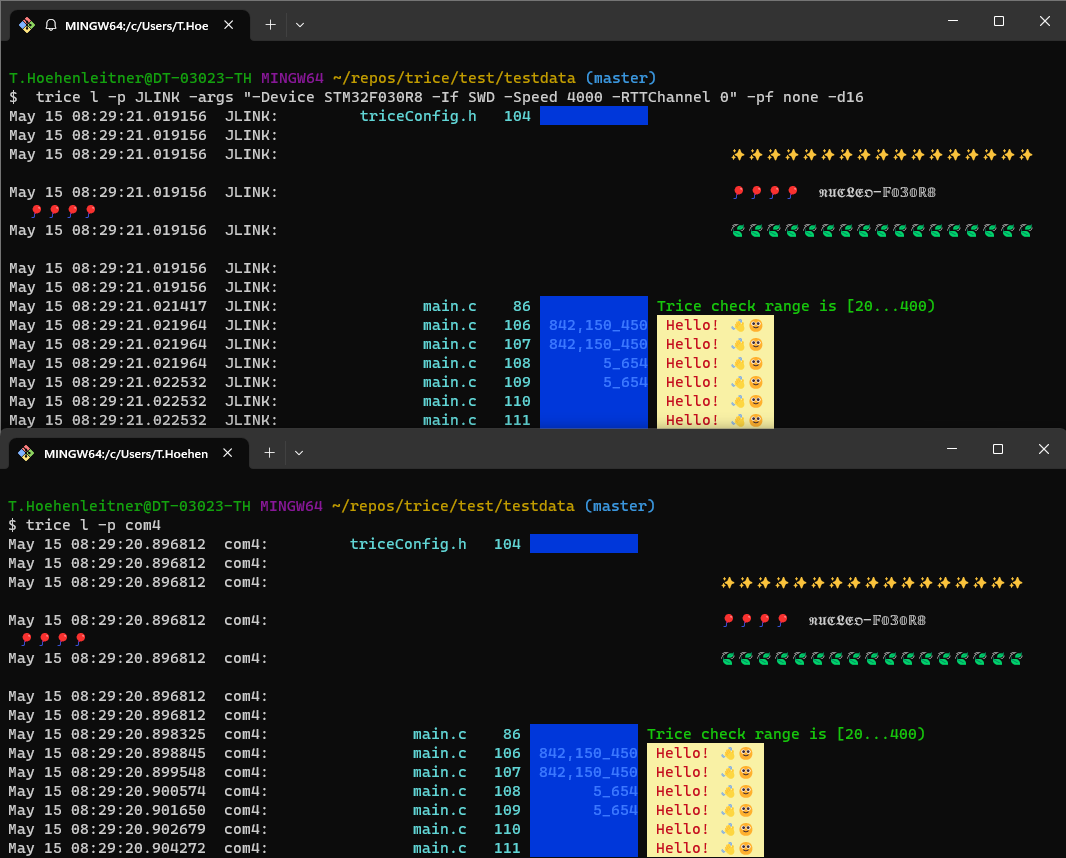
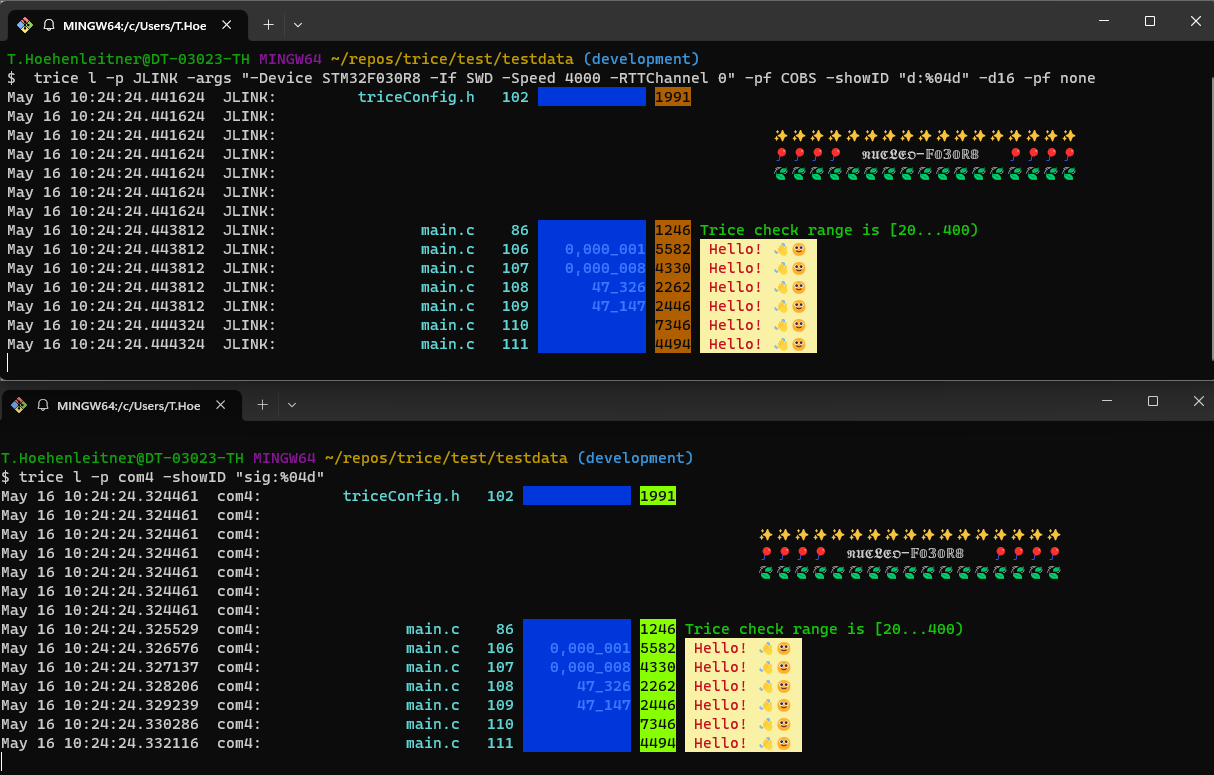
v0.60.2

diff --git a/test/MDK-ARM_STM32F030R8_instrumented/Core/Inc/triceConfig.h b/test/MDK-ARM_STM32F030R8_instrumented/Core/Inc/triceConfig.h
@@ -11,11 +11,11 @@ extern "C" {
 
 //! TriceStamp16 returns a 16-bit value to stamp `Id` TRICE macros. Usually it is a timestamp, but could also be a destination address or a counter for example.
 //! The user has to provide this function. Defining a macro here, instead if providing `int16_t TriceStamp16( void );` has significant speed impact.
-#define TriceStamp16() (0x1616) //(SysTick->VAL) 
+#define TriceStamp16() (SysTick->VAL) 
 
 //! TriceStamp32 returns a 32-bit value to stamp `ID` TRICE macros. Usually it is a timestamp, but could also be a destination address or a counter for example.
 //! The user has to provide this function. Defining a macro here, instead if providing `int32_t TriceStamp32( void );` has significant speed impact.
-#define TriceStamp32() (0x32323232) //Us32()
+#define TriceStamp32() Us32()
 
 //!  TRICE_BUFFER selects, where the TRICE macros accumulate the trice data during a single TRICE execution. Selectable options:
 //! - TRICE_STACK_BUFFER: No additional buffer is needed, what makes sense for single task systems with direct output only.

diff --git a/CHANGELOG.md b/CHANGELOG.md
@@ -35,7 +35,8 @@
 | 2023-MAY-05 |  0.58.0 | Target files all now direct in src folder and need to be included all. Direct XTEA with RTT32 (experimental). |
 | 2023-MAY-10 |  0.59.0 | Target code better structured. Automatic target tests working and now extendable with more configuration variants. Auxiliary support for direct and deferred. Common RTT Diagnostics for all RTT Modes as part of TRICE_DIAGNOSTICS. |
 | 2023-MAY-14 |  0.60.0 | XTEA working with doubleBuffer in multi-pack mode and also with ringBuffer (safe-single mode). Tests for that added and also a test for twin mode (direct plus deferred output) is working. more target code tests |
-| 2023-MAY-15 |  0.60.1 | Twice Log enabled in https://github.com/rokath/trice/tree/master/test/MDK-ARM_STM32F030R8_instrumented as `triceConfig.h` example.
+| 2023-MAY-15 |  0.60.1 | Twice Log enabled in https://github.com/rokath/trice/tree/master/test/MDK-ARM_STM32F030R8_instrumented as `triceConfig.h` example. |
+| 2023-MAY-16 |  0.60.2 | Target code linted. |
 
 ## v0.60.1 Twice Log Screen Shot
 
